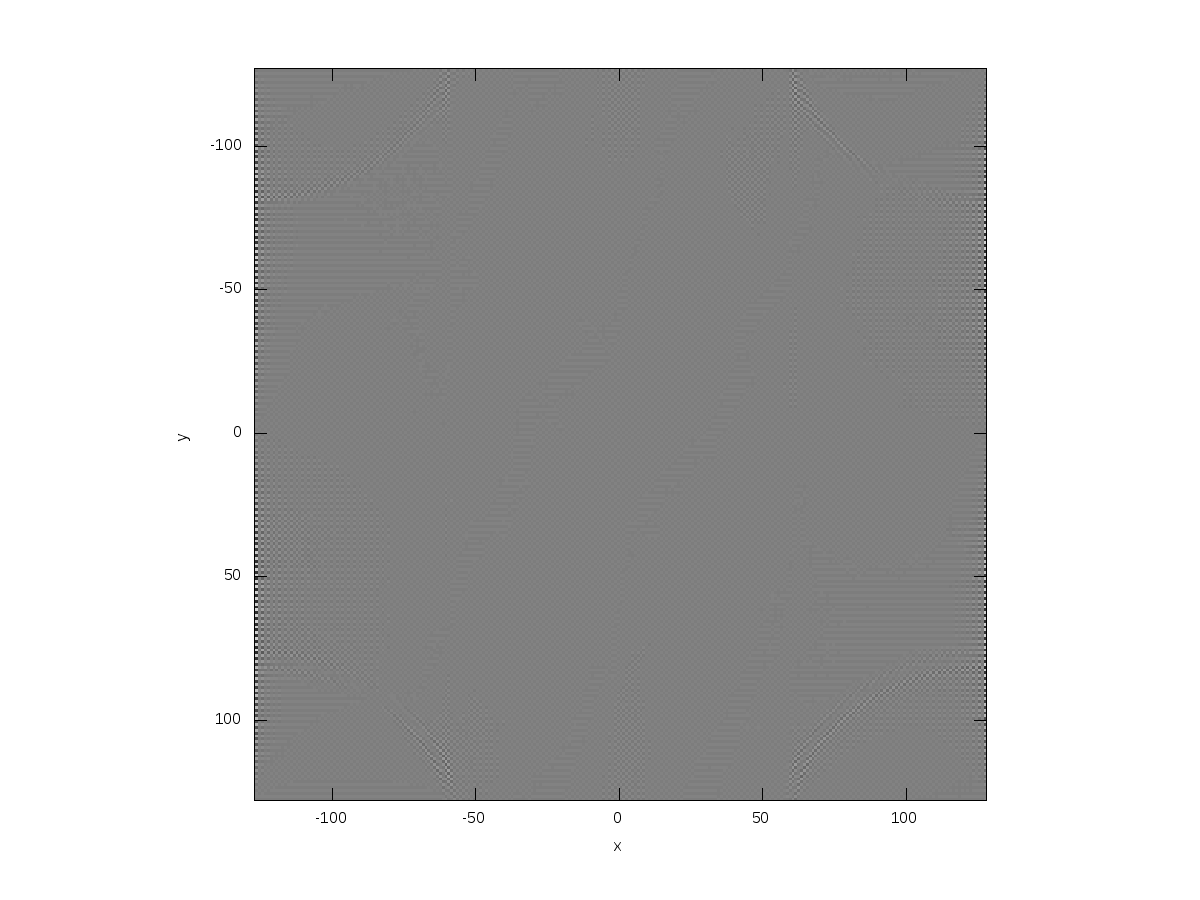
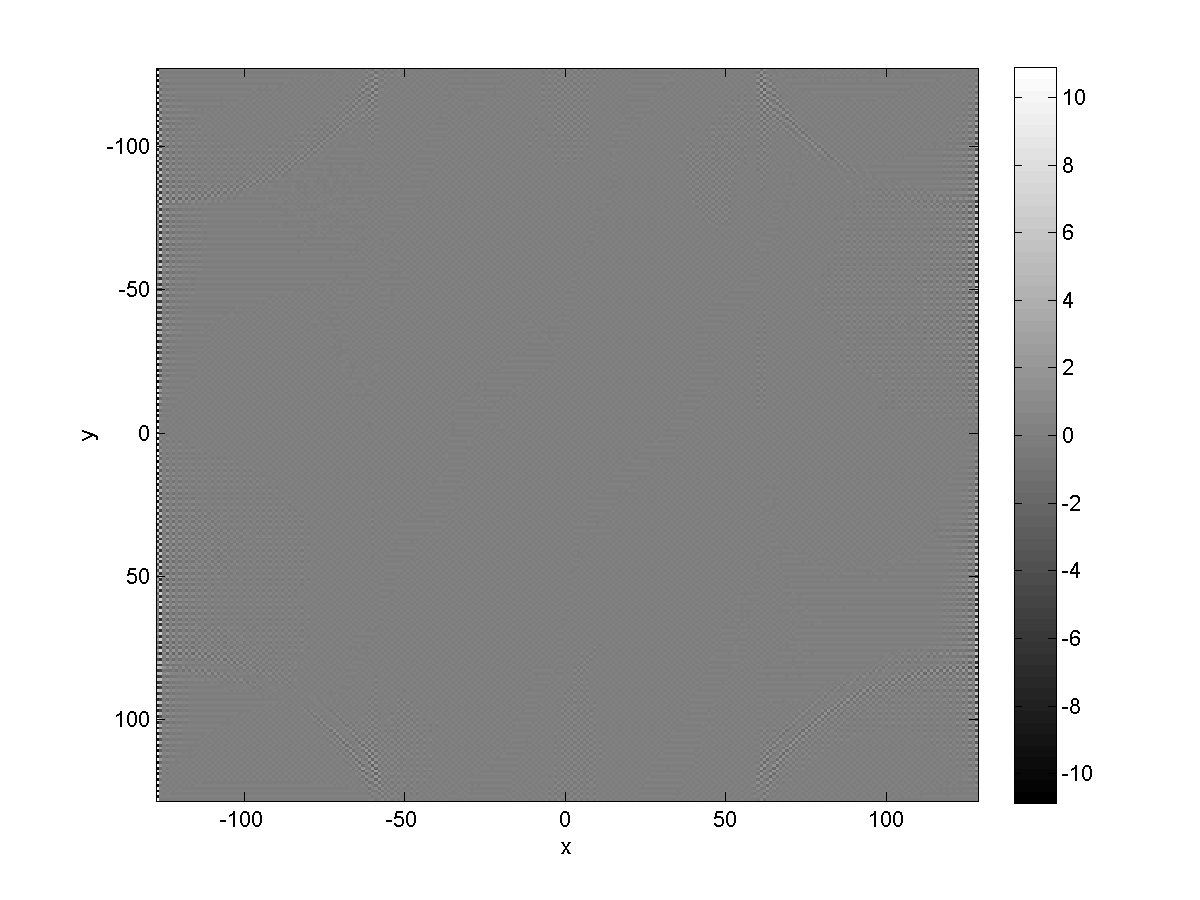
Make sourcecode more compatible to Matlab 2007

diff --git a/run.m b/run.m
@@ -1,78 +1,85 @@
-%Size of reconstructed image
+
+%% Size of reconstructed image
 N=256;
 
+%% Create Phantom
 P = phantom('Modified Shepp-Logan',N);
 %P = zeros(N);
 %P(200,100)=1;
 
 figure(1)
 imagesc(P)
-xlabel("x"),ylabel("y"),colormap(gray),colorbar
+xlabel('x'),ylabel('y'),colormap(gray),colorbar
 print -dpng 1_phantom.png
 
 % apply radon transformation
 [RT,XP] = radon(P);
 
-% noise?
+% apply noise?
+%RT = RT * rand
 
-%Show radon image
+%% Show radon image
 figure(2)
 imagesc(RT);
-xlabel("theta"),ylabel("s"),colormap(gray),colorbar
+xlabel('theta'),ylabel('s'),colormap(gray),colorbar
 print -dpng 2_radon.png
 
-% polar fourier transform
+%% polar fourier transform
 F2 = fftshift(fft(RT),1);
 
-%F21 = vertcat( F2([ceil(a/2):a],:), F2([1:floor(a/2)],:));
+%% F21 = vertcat( F2([ceil(a/2):a],:), F2([1:floor(a/2)],:));
 
 [a,b]=size(F2);
-[Theta Omega]=meshgrid([1:b],[1:a]-floor(a/2));
+theta=(1:b);
+omega=(1:a)-floor(a/2)
+[Theta Omega]=meshgrid(theta,omega);
 
 figure(3)
-imagesc(Theta, Omega, real(F2))
-xlabel("theta"),ylabel("omega_s")
+imagesc(theta, omega, real(F2)),colormap(gray),colorbar
+xlabel('theta'),ylabel('omega_s')
 print -dpng 3a_fourier_radon_real.png
 
 figure(4)
-imagesc(Theta, Omega, imag(F2))
-xlabel("theta"),ylabel("omega_s")
+imagesc(theta, omega, imag(F2)),colormap(gray),colorbar
+xlabel('theta'),ylabel('omega_s')
 print -dpng 3b_fourier_radon_imag.png
 
-%change to x-y coordinate
-
+%% change to x-y coordinate
 F22 = horzcat(F2,F2,F2);
-[Theta2 Omega2]=meshgrid([1-b:b+b],[1:a]-floor(a/2));
+theta2=(1-b:b+b);
+omega2=(1:a)-floor(a/2);
+[Theta2 Omega2]=meshgrid(theta2,omega2);
 
-[XX YY]=meshgrid( [1:N]-N/2 , [1:N]-N/2 );
+xx=(1:N)-N/2;
+yy=(1:N)-N/2;
+[XX YY]=meshgrid( xx , yy );
 th = atan2(YY,XX).*180./pi;
 w = sqrt( XX.^2 + YY.^2 ) .* sign (th);
 th = abs(th);
 
 Fxy = interp2(Theta2,Omega2,F22,th,w);
-%set all nan to zero
+% set all nan to zero
 Fxy(isnan(Fxy))=0;
 
 figure(5)
-imagesc(XX,YY,real(Fxy))
-axis equal,xlabel("omega_x"),ylabel("omega_y")
+imagesc(xx,yy,real(Fxy)),colormap(gray),colorbar
+xlabel('omega_x'),ylabel('omega_y')
 print -dpng 4a_fourier_xy_real.png
 
 figure(6)
-imagesc(XX, YY, imag(Fxy))
-axis equal,xlabel("omega_x"),ylabel("omega_y")
+imagesc(xx, yy, imag(Fxy)),colormap(gray),colorbar
+xlabel('omega_x'),ylabel('omega_y')
 print -dpng 4b_fourier_xy_imag.png
 
-%inverse fft
+%% inverse fft
 f = ifft2(Fxy);
 
 figure(7)
-imagesc(XX,YY,real(f))
-axis equal,xlabel("x"),ylabel("y")
+imagesc(xx,yy,real(f)),colormap(gray),colorbar
+xlabel('x'),ylabel('y')
 print -dpng 5_reconstruct_xy_real.png
 
 figure(8)
-imagesc(XX,YY,imag(f))
-axis equal,xlabel("x"),ylabel("y")
+imagesc(xx,yy,imag(f)),colormap(gray),colorbar
+xlabel('x'),ylabel('y')
 print -dpng 5_reconstruct_xy_imag.png
-
